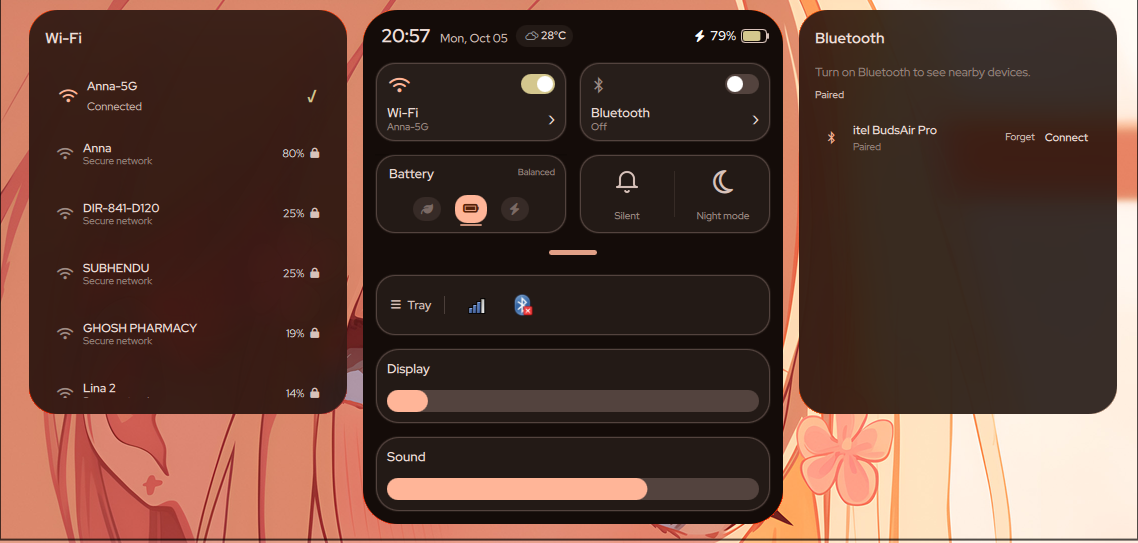
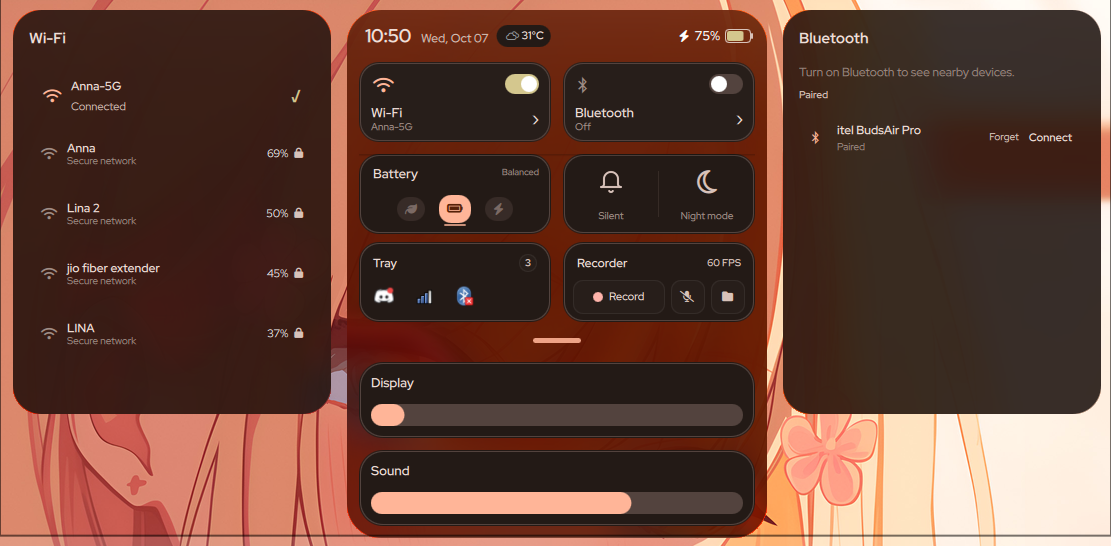
docs: update README and control center preview screenshot

diff --git a/README.md b/README.md
@@ -131,8 +131,15 @@ It is built with Quickshell, QML, and C++/Qt 6. Animations are tuned to be fluid
 
 ### Extended Enhancements
 
-- **Integrated System Tray (SNI)**: Embedded StatusNotifierItem tray in the Control Center displaying active background applications and status indicators with interactive click actions, tooltips, and smooth collapse when empty.
-- **Native GPU Screen Recorder & Instant Replay**: Dedicated Control Center card and Dynamic Island HUD powered by `gpu-screen-recorder`. Features 60 FPS recording, live pulsing clock capsule indicator, mic toggle, pause/resume, instantaneous shadowplay replay buffer (10s/30s/60s clip capture), and full bidirectional PID synchronization with external CLI scripts (`gsr`).
+- **Redesigned Control Center 2×2 Drawer Grid**: Symmetrical 2-column drawer layout featuring:
+  - **Row 1**: Battery power profile selector + quick Silent and Night mode toggles.
+  - **Row 2**: Sleek modern **System Tray** + compact **Screen Recorder** companion card side-by-side.
+- **Sleek Horizontal Scrolling System Tray (SNI)**: Embedded StatusNotifierItem tray widget with item count badge pill, smooth horizontal flick/wheel scrolling, 34×34 squircle icon tiles, edge fade gradient masks when overflowed, tooltips on hover, and full click/context menu interaction.
+- **Native GPU Screen Recorder & Instant Replay**: Dedicated screen recorder powered by `gpu-screen-recorder` with full Matugen color harmony:
+  - **Pull-Down Drawer Card**: Half-width companion card providing instant Record/Stop, mic audio capture toggle, and quick recordings folder access.
+  - **Dynamic Active Elevation**: When recording or when the instant replay buffer is active, a full-featured recorder banner automatically elevates into the main Control Center view with live timer, pause/resume, mic toggle, and instant clip saving (10s, 30s, 60s) without needing to open the drawer.
+  - **Dynamic Island Status**: Real-time pulsing indicator dot directly in the island clock capsule.
+  - **Bidirectional Sync**: Seamless PID and state tracking with external terminal scripts (`gsr`).
 - **Dynamic Color Palette & Matugen Integration**: Live hot-reloads of `colors.json` on disk via `QFileSystemWatcher` without service restarts. Ready-to-use Matugen template with preserved capsule translucency (`islandBackgroundOpacity`).
 - **Dynamic Battery Color Progression**: Battery pill smoothly shifts colors based on charge level (critical, warning, nominal, charging) with full Matugen color matching and an on/off toggle in settings.
 - **Marquee Track Title Scrolling**: Clean, smooth auto-scrolling for long song titles with an initial 1.8s reading pause and seamless looping, plus an instant toggle in the Config App to fall back to static ellipsis (`Title...`) for 0% CPU.
@@ -160,6 +167,7 @@ It is built with Quickshell, QML, and C++/Qt 6. Animations are tuned to be fluid
 - Custom page
 - Notification Center
 - Power menu
+- System Tray (SNI)
 - Screen Recorder & Instant Replay
 
 Clipboard history requires `cliphist` and `wl-clipboard`. Tide Island starts the clipboard watcher automatically while it is running.
@@ -294,6 +302,13 @@ tide-island-config-app
 - **Interaction**: Configure click actions for the dynamic island pill (Left, Middle, and Right mouse buttons for Player, Control Center, and Clipboard History).
 - **Weather**: Configure auto-detection or custom city name, temperature units (°C or °F), and refresh interval.
 - **Calendar**: Quick month view with week numbers and relative date indicators. Click the date in the Control Center, press `Super + K`, or use the scroll wheel / arrow keys to browse months. Press `Home` to return to today, and `Esc` to close.
+- **Screen Recorder & Instant Replay**:
+  - Pull down the Control Center drawer to quickly start/stop recordings, toggle microphone capture, or browse saved clips.
+  - While recording or buffering replay, the active recording card automatically elevates into the main Control Center view with a live timer and quick-save presets (60s, 30s, 10s).
+  - All button highlights and glowing border accents harmoniously blend with your wallpaper's palette via Matugen.
+- **System Tray (SNI)**:
+  - Tucked inside the Control Center drawer with an item count pill badge and smooth horizontal wheel/touch scrolling.
+  - Supports left-click activate, right-click context menus, wheel scrolling, and tooltip previews on hover.
 - **Color Palette & Matugen**: Tide Island supports dynamic system-wide color palettes generated by tools like [Matugen](https://github.com/InioX/matugen) or customized manually in `~/.config/tide-island/colors.json`.
   - **Live Auto-Reload**: Palette updates on disk are automatically detected and reloaded instantly via `QFileSystemWatcher` without restarting the service.
   - **Transparency Preserved**: Island capsule background transparency (`islandBackgroundOpacity`) continues to work seamlessly alongside dynamic palette tints.
